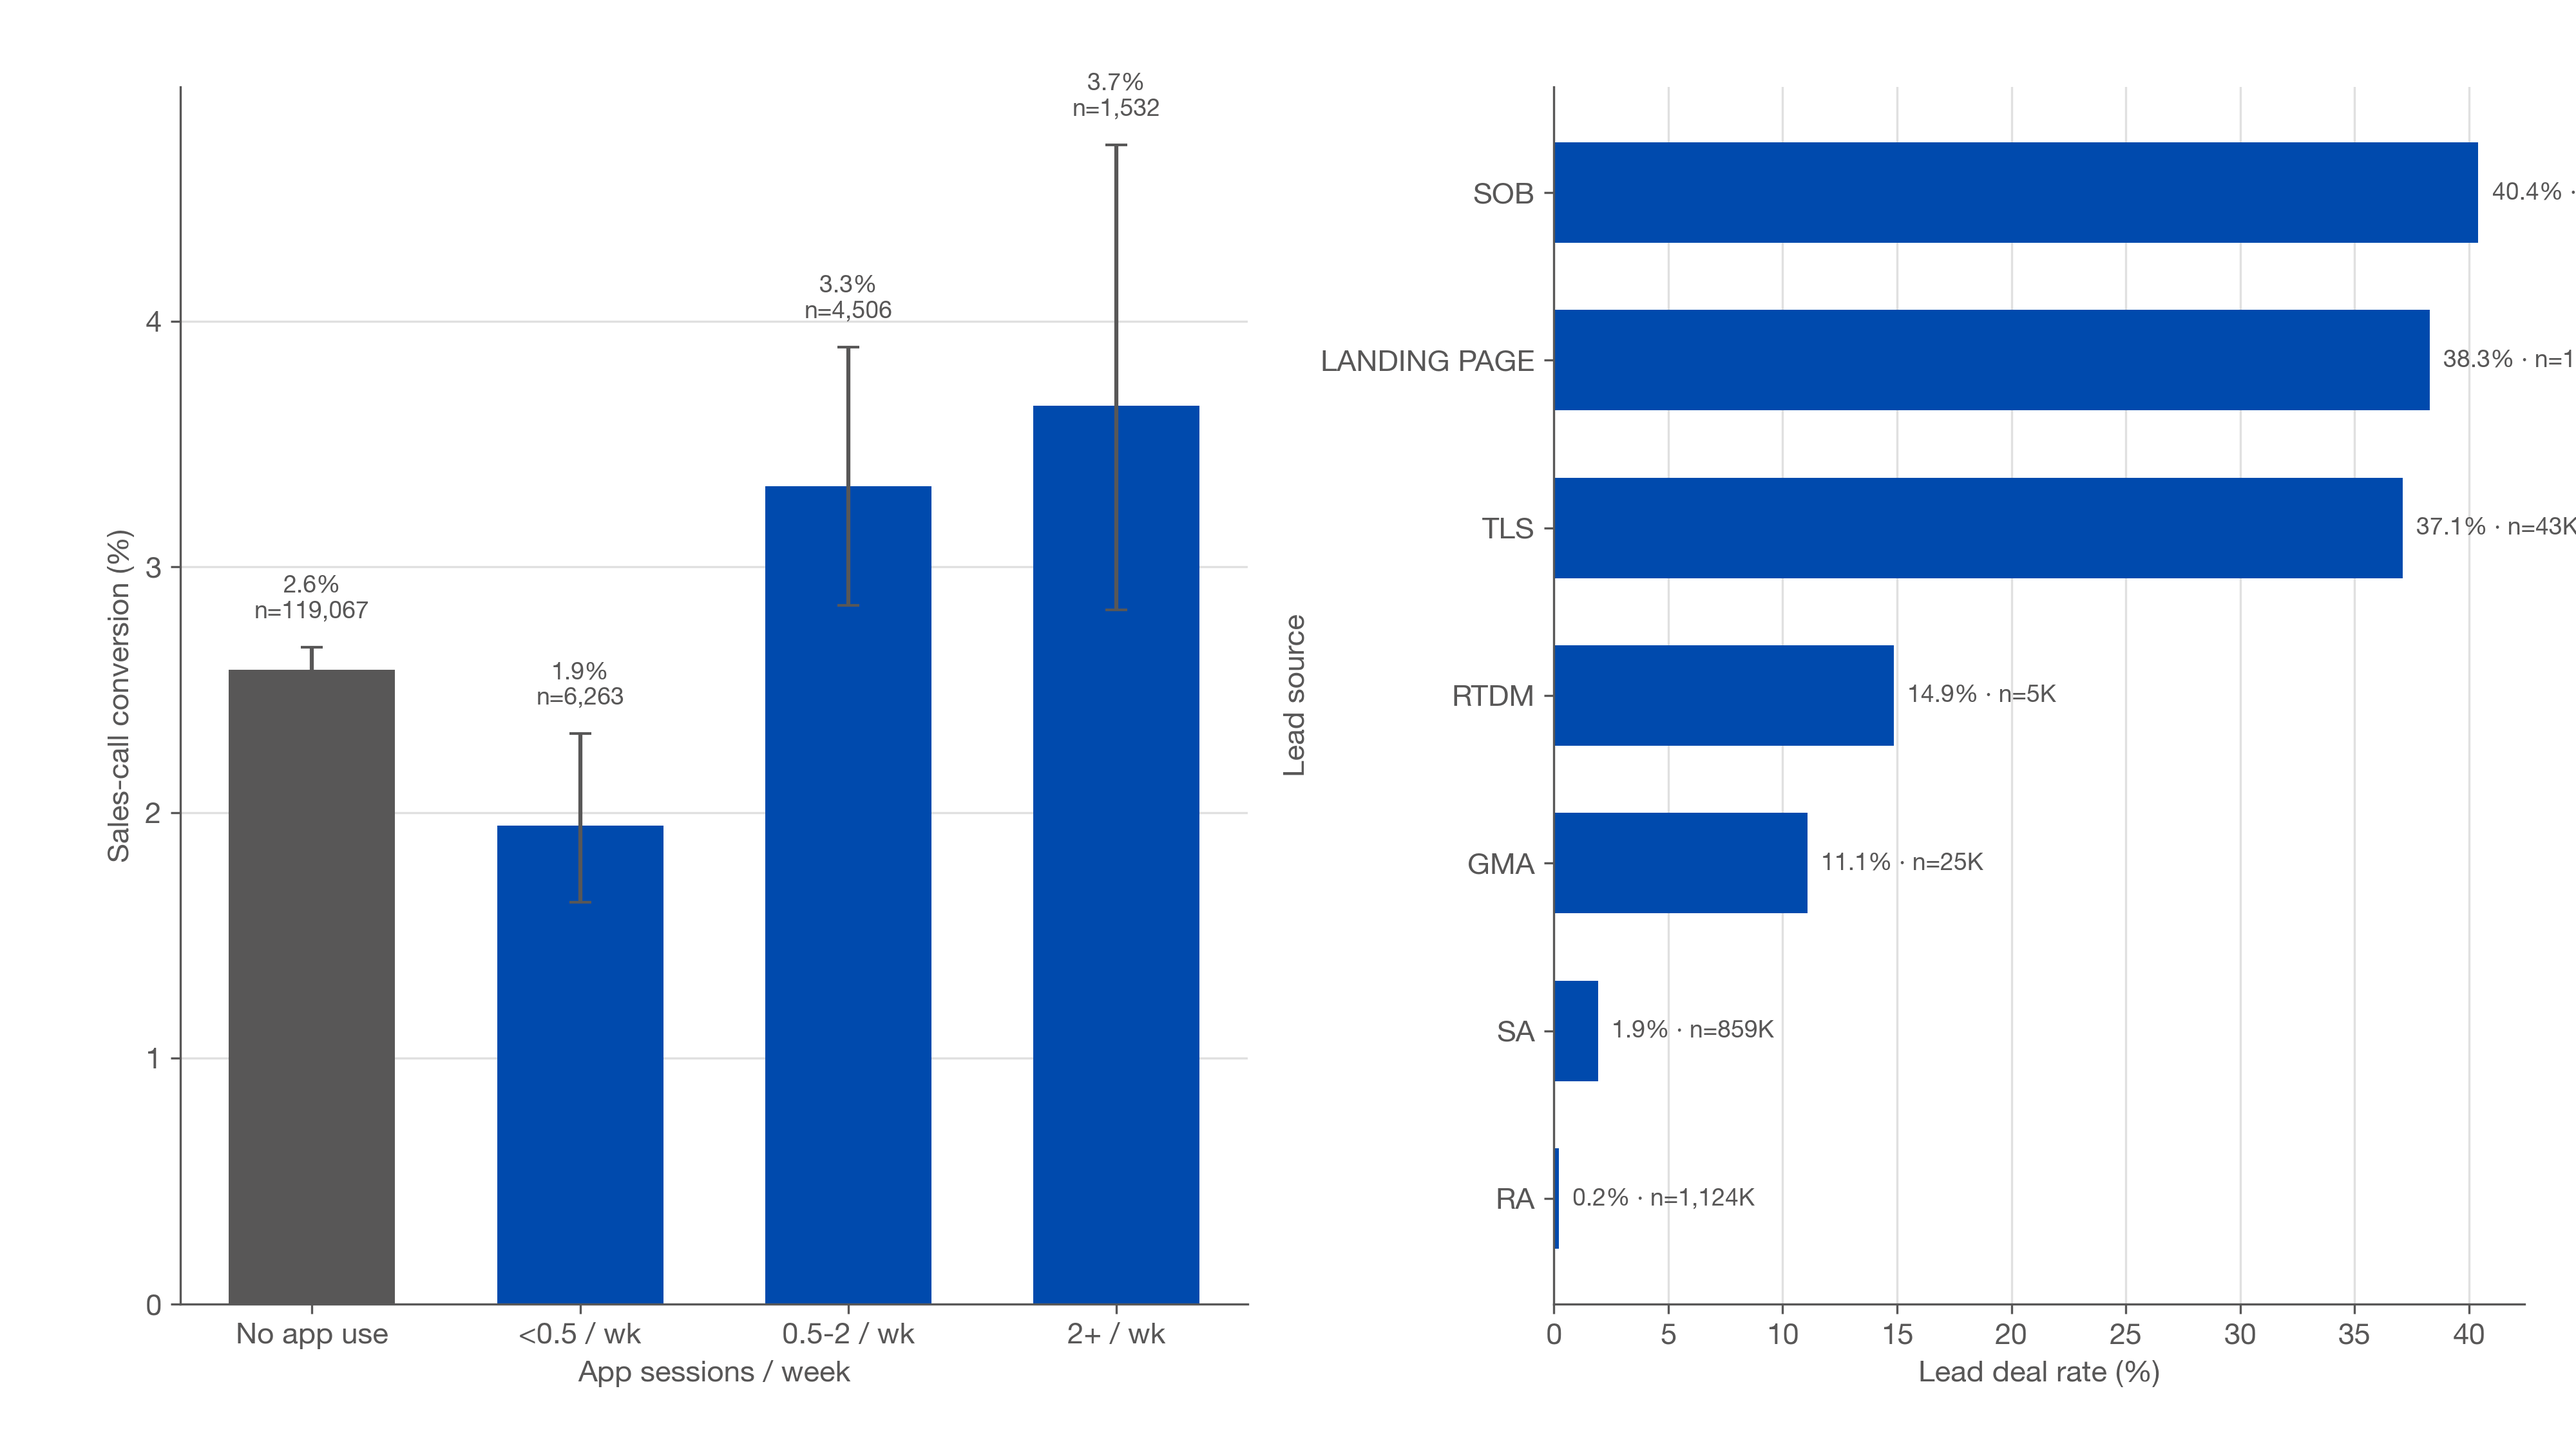
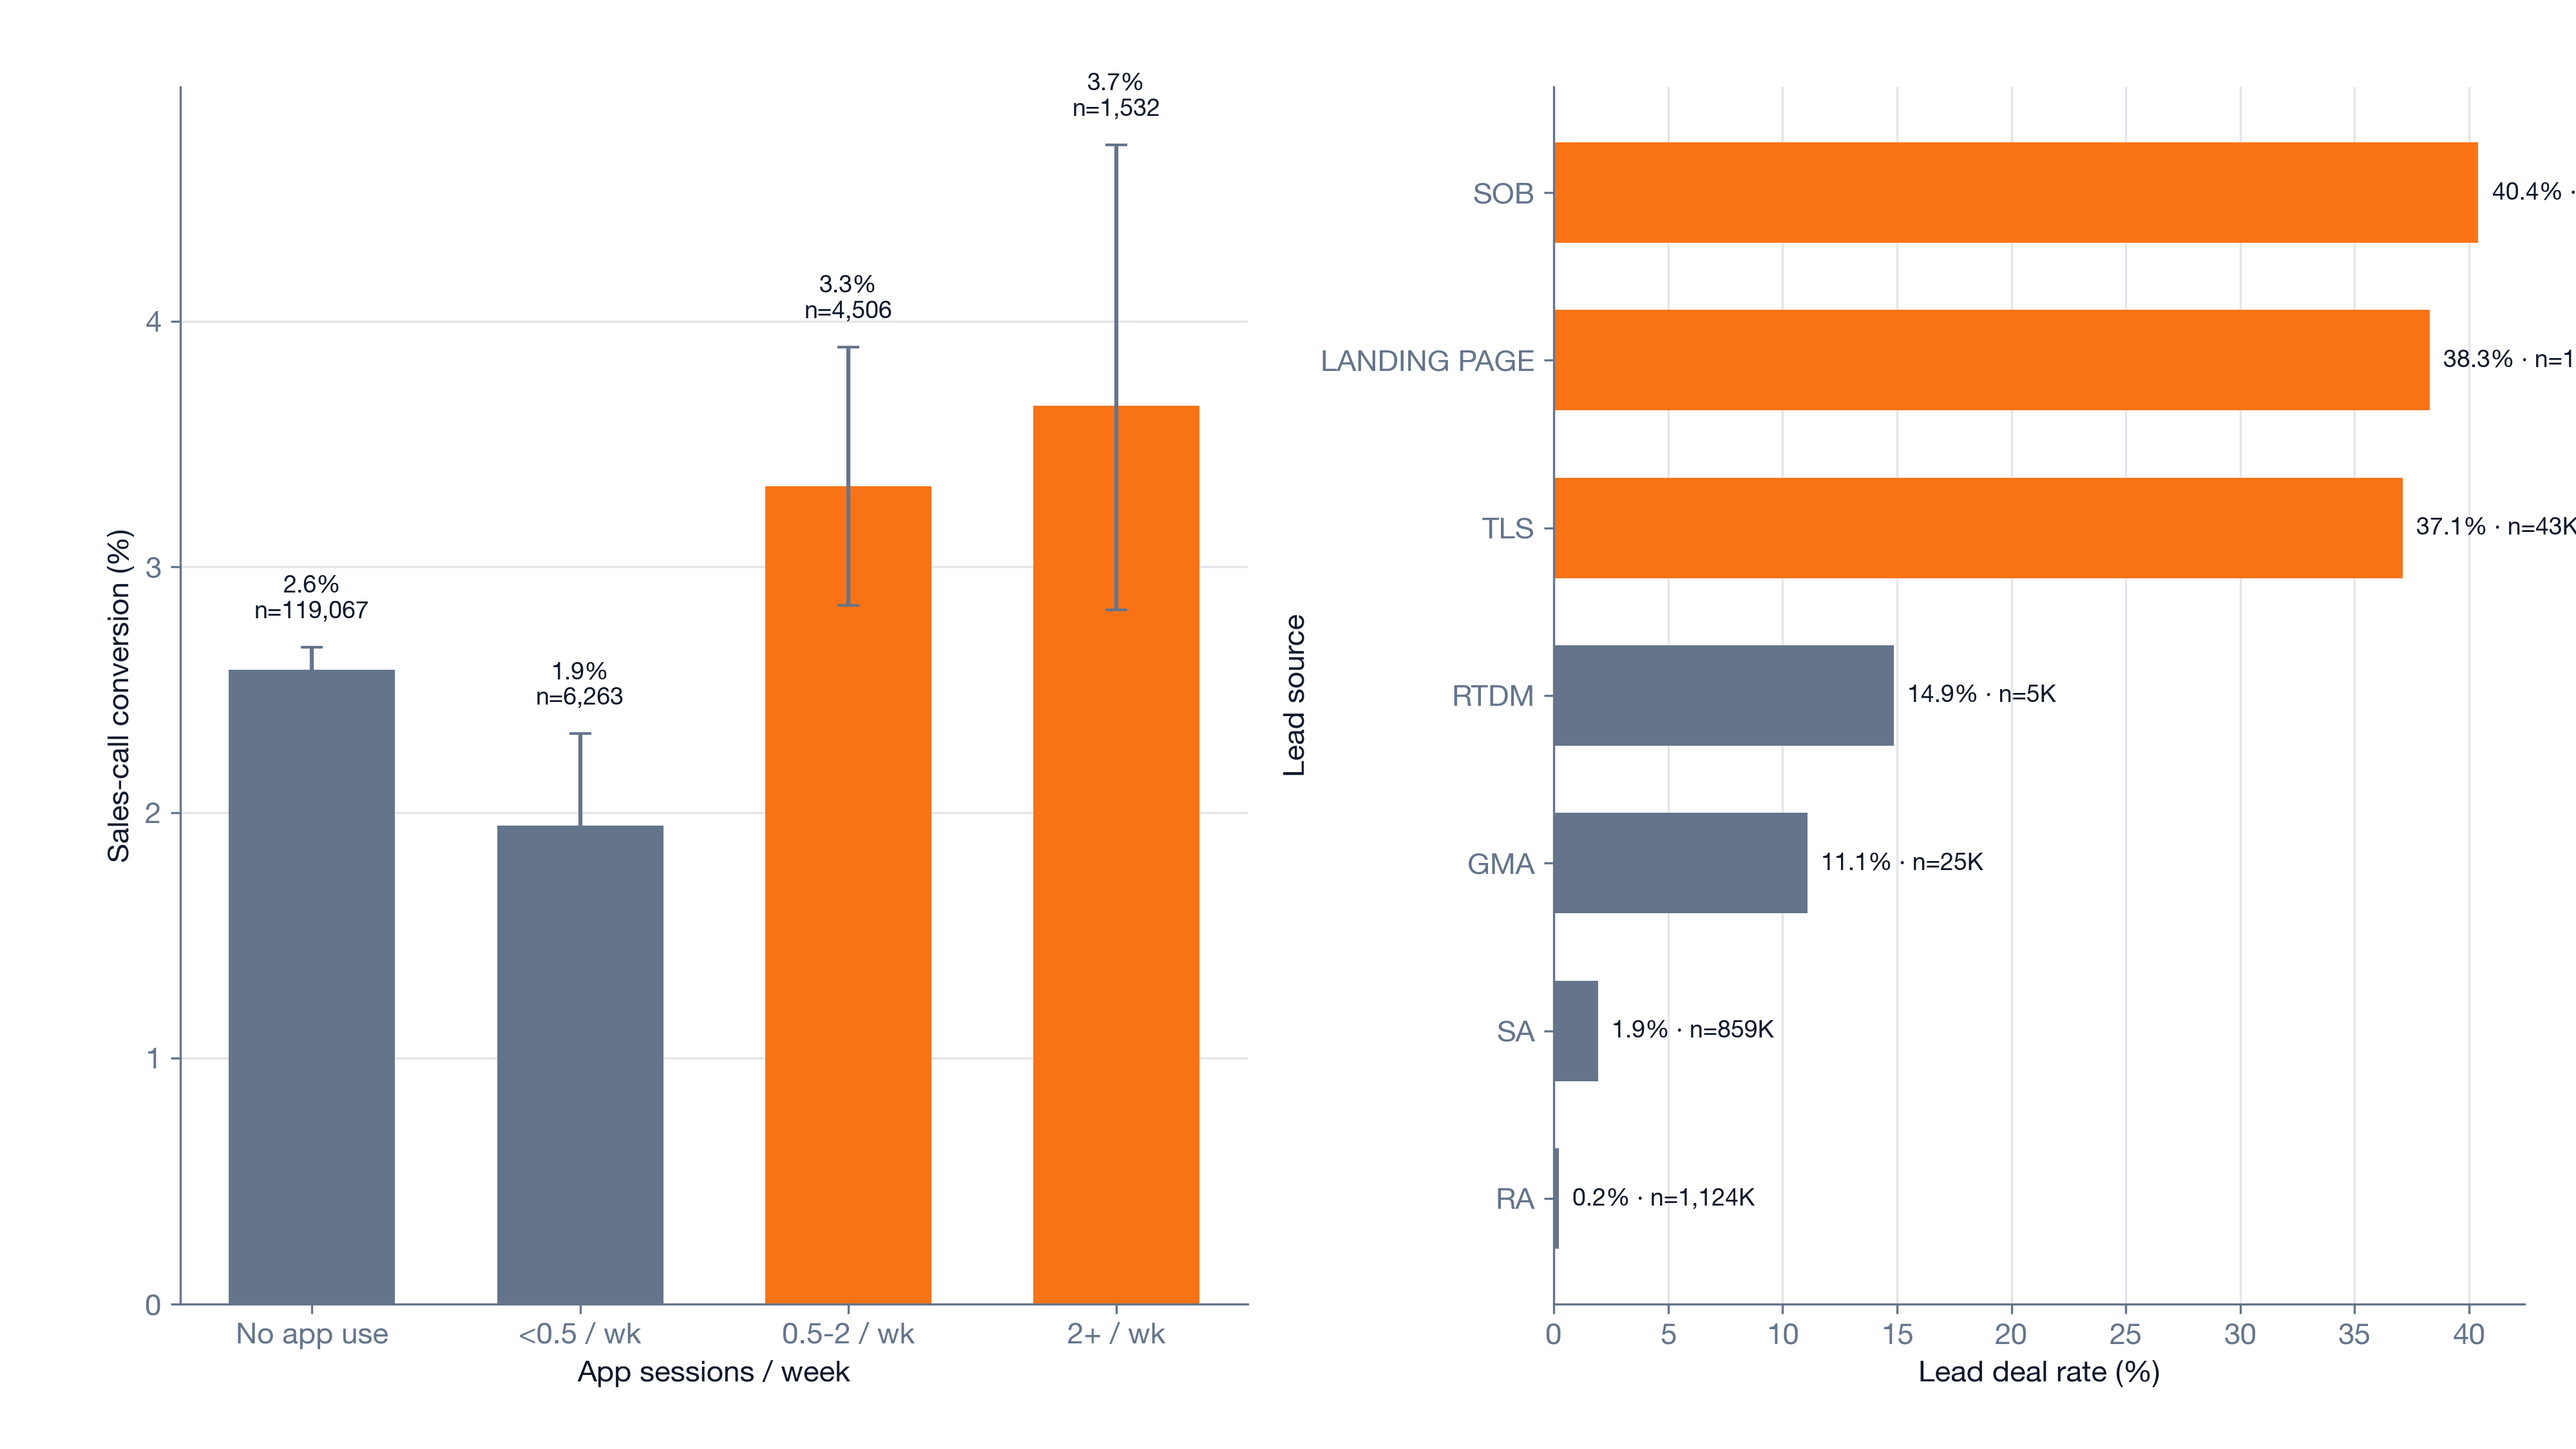
style(task2): refine highlight colours and labels on charts 1, 2 and 5
- Chart 1: grey for low app use / lower-deal sources, orange for 0.5+ sessions/wk and top-3 lead sources
- Chart 2: highlight the 21-50 attempts band; grey duration bars; first-call line now uses
  the same 7 duration bands as the bars (was mis-aligned at 5m+)
- Chart 5: add rate and n labels to all panels; add headroom so tier labels no longer overlap the histogram

diff --git a/Code/4. Task 2.py b/Code/4. Task 2.py
@@ -294,8 +294,8 @@ def q2_call_dynamics(con) -> dict:
                            labels=["<10s", "10-30s", "30-60s", "1-2m", "2-5m", "5-10m", "10m+"])
     res["by_attempts"] = d.groupby("att_band", observed=True).agg(n=("converted", "size"), conv=("converted", "mean")).reset_index()
     res["by_duration"] = d[m].groupby("dur_band", observed=True).agg(n=("converted", "size"), conv=("converted", "mean")).reset_index()
-    res["by_first_duration_rob"] = rob.assign(b=pd.cut(rob.first_dur, [-1, 10, 30, 60, 120, 300, 1e9],
-                                                       labels=["<10s", "10-30s", "30-60s", "1-2m", "2-5m", "5m+"])) \
+    res["by_first_duration_rob"] = rob.assign(b=pd.cut(rob.first_dur, [-1, 10, 30, 60, 120, 300, 600, 1e9],
+                                                       labels=["<10s", "10-30s", "30-60s", "1-2m", "2-5m", "5-10m", "10m+"])) \
         .groupby("b", observed=True).agg(n=("converted", "size"), conv=("converted", "mean")).reset_index()
     return res
 
@@ -374,7 +374,7 @@ def q4_early_warning(con, pop) -> dict:
 def chart_active_passive(q1):
     fig, axes = plt.subplots(1, 2, figsize=(13.33, 7.5), gridspec_kw={"width_ratios": [1.1, 1]})
     bands = q1["by_app_band"]
-    colors = [PAL["grey"], PAL["navy"], PAL["navy"], PAL["orange"]]
+    colors = [PAL["grey"], PAL["grey"], PAL["orange"], PAL["orange"]]
     axes[0].bar(bands.app_band.astype(str), bands.conv * 100, color=colors, width=0.62,
                 yerr=[(bands.conv - bands.ci_lo) * 100, (bands.ci_hi - bands.conv) * 100], capsize=4, ecolor=PAL["grey"])
     for i, row in bands.iterrows():
@@ -384,7 +384,8 @@ def chart_active_passive(q1):
     axes[0].grid(axis="x", visible=False)
 
     leads = q1["lead_source_deal"].sort_values("deal_rate")
-    colors = [PAL["orange"] if source in ("GMA", "LANDING PAGE", "SOB") else PAL["navy"] for source in leads.LEAD_SOURCE]
+    # barh draws bottom-up, so the last three rows are the top three deal rates
+    colors = [PAL["orange"] if i >= len(leads) - 3 else PAL["grey"] for i in range(len(leads))]
     axes[1].barh(leads.LEAD_SOURCE, leads.deal_rate * 100, color=colors, height=0.6)
     for i, (rate, count) in enumerate(zip(leads.deal_rate, leads.n)):
         axes[1].text(rate * 100 + 0.6, i, f"{rate:.1%} · n={count / 1e3:,.0f}K", va="center", fontsize=9)
@@ -403,7 +404,8 @@ def chart_active_passive(q1):
 def chart_call_dynamics(q2):
     fig, axes = plt.subplots(1, 2, figsize=(13.33, 7.5))
     attempts = q2["by_attempts"]
-    axes[0].bar(attempts.att_band.astype(str), attempts.conv * 100, color=PAL["navy"], width=0.65)
+    colors = [PAL["orange"] if band == "21-50" else PAL["grey"] for band in attempts.att_band.astype(str)]
+    axes[0].bar(attempts.att_band.astype(str), attempts.conv * 100, color=colors, width=0.65)
     for i, row in attempts.iterrows():
         axes[0].text(i, row.conv * 100 + attempts.conv.max() * 1.5, f"{row.conv:.1%}", ha="center", fontsize=9)
     axes[0].set_xlabel("Outbound attempts / customer")
@@ -411,9 +413,11 @@ def chart_call_dynamics(q2):
     axes[0].grid(axis="x", visible=False)
 
     durations = q2["by_duration"]
-    axes[1].bar(durations.dur_band.astype(str), durations.conv * 100, color=PAL["navy"], width=0.65, label="Mean connected-call duration")
+    axes[1].bar(durations.dur_band.astype(str), durations.conv * 100, color=PAL["grey"], width=0.65,
+                label="All connected calls (avg duration)")
     robust = q2["by_first_duration_rob"]
-    axes[1].plot(np.arange(len(robust)), robust.conv * 100, "o--", color=PAL["orange"], lw=2,
+    position = {band: i for i, band in enumerate(durations.dur_band.astype(str))}
+    axes[1].plot(robust.b.astype(str).map(position), robust.conv * 100, "o--", color=PAL["orange"], lw=2,
                  label="First-call duration; later conversion")
     for i, row in durations.iterrows():
         axes[1].text(i, row.conv * 100 + 1.2, f"{row.conv:.0%}", ha="center", fontsize=9)
@@ -486,32 +490,35 @@ def chart_early_warning(q4):
 def chart_score(pop, val, fwd):
     fig, axes = plt.subplots(1, 3, figsize=(13.33, 7.5), gridspec_kw={"width_ratios": [1.5, 1, 1]})
     bins = np.arange(0, 101, 2)
+    peak = 0
     for tier, (lower, upper) in {"Low": (0, 50), "Medium": (50, 80), "High": (80, 101)}.items():
         scores = pop.Engagement_Score[(pop.Engagement_Score >= lower) & (pop.Engagement_Score < upper)]
-        axes[0].hist(scores, bins=bins, color=TIER_COLORS[tier])
+        counts, _, _ = axes[0].hist(scores, bins=bins, color=TIER_COLORS[tier])
+        peak = max(peak, counts.max())
     axes[0].set_yscale("log")
+    axes[0].set_ylim(top=peak * 8)   # headroom above the tallest bar for the tier labels
     shares = pop.eng_short.value_counts(normalize=True)
-    for tier, position in [("Low", 25), ("Medium", 65), ("High", 90)]:
-        axes[0].text(position, 0.96, f"{tier} · {shares.get(tier, 0):.1%}", ha="center", fontsize=10,
-                     fontweight="bold", color=TIER_COLORS[tier], va="top", transform=axes[0].get_xaxis_transform())
+    counts = pop.eng_short.value_counts()
+    for tier, position in [("Low", 33), ("Medium", 65), ("High", 90)]:
+        axes[0].text(position, 0.97, f"{tier} · {shares.get(tier, 0):.1%}\nn={counts.get(tier, 0) / 1e3:,.0f}K",
+                     ha="center", fontsize=10, fontweight="bold", color=TIER_COLORS[tier], va="top",
+                     transform=axes[0].get_xaxis_transform())
     axes[0].set_xlabel("Engagement score (0–100)")
     axes[0].set_ylabel("Customers · log scale")
 
-    application_tiers = pd.DataFrame(val["tier_table"]).set_index("tier")
-    axes[1].bar(application_tiers.index, application_tiers.apply_rate * 100,
-                color=[TIER_COLORS[tier] for tier in application_tiers.index], width=0.6)
-    axes[1].set_xlabel("Engagement tier")
-    axes[1].set_ylabel("Later application rate (%)")
-    axes[1].tick_params(axis="x", labelrotation=15)
-    axes[1].grid(axis="x", visible=False)
+    def tier_bars(ax, table, column, ylabel):
+        ax.bar(table.index, table[column] * 100, color=[TIER_COLORS[tier] for tier in table.index], width=0.6)
+        top = table[column].max() * 100
+        for i, (value, n) in enumerate(zip(table[column], table.n)):
+            ax.text(i, value * 100 + top * 0.02, f"{value:.1%}\nn={n / 1e3:,.0f}K", ha="center", va="bottom", fontsize=9)
+        ax.set_ylim(0, top * 1.15)
+        ax.set_xlabel("Engagement tier")
+        ax.set_ylabel(ylabel)
+        ax.tick_params(axis="x", labelrotation=15)
+        ax.grid(axis="x", visible=False)
 
-    call_tiers = pd.DataFrame(fwd["tier_table"]).set_index("tier")
-    axes[2].bar(call_tiers.index, call_tiers.pos * 100,
-                color=[TIER_COLORS[tier] for tier in call_tiers.index], width=0.6)
-    axes[2].set_xlabel("Engagement tier")
-    axes[2].set_ylabel("Positive call response (%)")
-    axes[2].tick_params(axis="x", labelrotation=15)
-    axes[2].grid(axis="x", visible=False)
+    tier_bars(axes[1], pd.DataFrame(val["tier_table"]).set_index("tier"), "apply_rate", "Later application rate (%)")
+    tier_bars(axes[2], pd.DataFrame(fwd["tier_table"]).set_index("tier"), "pos", "Positive call response (%)")
     save_fig(fig, TASK_FIGURES / "05_engagement_score_distribution_validation.png", None, wspace=0.3)
 
 
